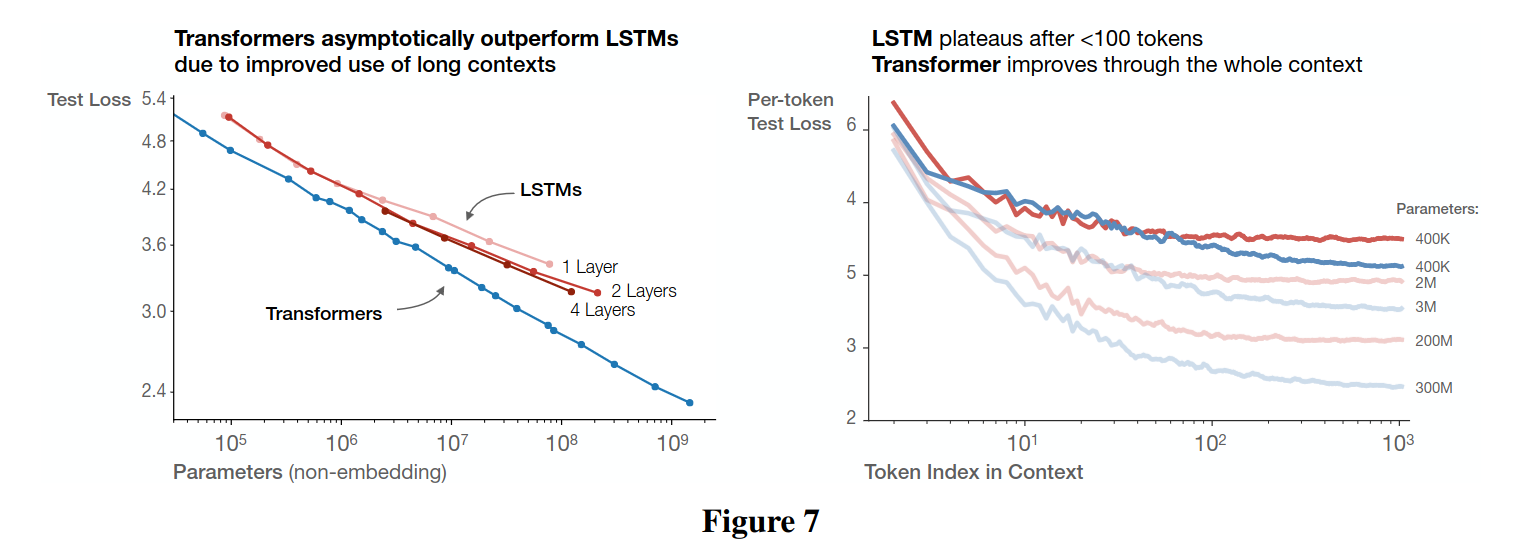
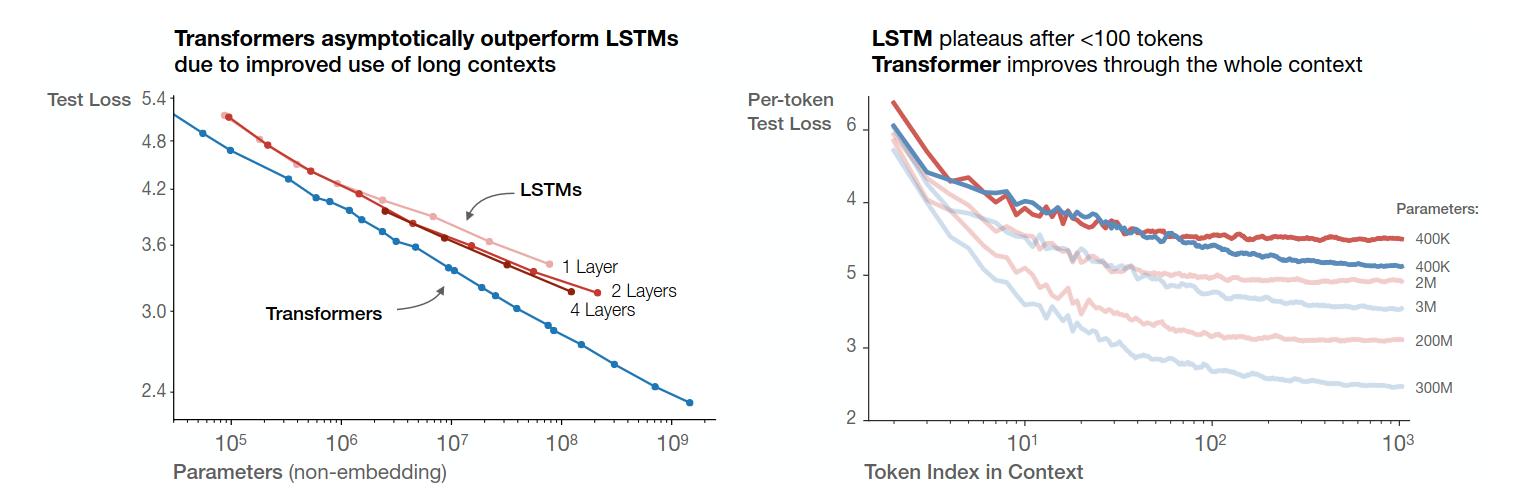
docs: rewrite figure captions in own words, update kaplan figures, update CLAUDE.md

diff --git a/content/scaling-laws/kaplan-2020.md b/content/scaling-laws/kaplan-2020.md
@@ -27,7 +27,7 @@ where $X \in \{N, D, C\}$ and $\alpha > 0$ is the scaling exponent. The key prop
 ## Key Findings
 
 ![[kaplan-fig1.png]]
-*Figure 1: Test loss follows power laws in N, D, and compute C across many orders of magnitude.*
+*Figure 1: Test loss follows a smooth power law in N, D, and C independently, each over many orders of magnitude. All three must be scaled together for optimal performance — fixing any one eventually makes it the bottleneck.*
 
 ### Power laws in N, D, C independently
 
@@ -58,14 +58,14 @@ Total training FLOPs for a transformer with $N$ non-embedding parameters trained
 ### Architecture insensitivity
 
 ![[kaplan-fig5.png]]
-*Figure 5: Performance depends very mildly on model shape when the total number of non-embedding parameters N is held fixed. The loss varies only a few percent over a wide range of shapes. Small differences in parameter counts are compensated for by using the fit to L(N) as a baseline. Aspect ratio in particular can vary by a factor of 40 while only slightly impacting performance; an (nlayer, dmodel) = (6, 4288) reaches a loss within 3% of the (48, 1600) model used in [RWC+19].*
+*Figure 5: Loss is largely insensitive to model shape at fixed N. Depth/width ratio can vary by 40× with only a few percent change in loss — total non-embedding parameter count, not its distribution across layers, determines performance.*
 
 At fixed total $N$, changing depth/width ratio, number of heads, or FFN multiplier has much less effect on loss than changing $N$ itself. What matters is total parameter count, not how it is distributed. The optimal depth scales roughly as $d_\text{model} \propto \sqrt{N}$, but this is a weak effect in practice.
 
 ### Transformer vs LSTM
 
 ![[kaplan-fig7.png]]
-*Figure 7: Transformers and LSTMs are compared on loss as a function of non-embedding parameter count. LSTMs perform comparably to Transformers on tokens appearing early in the context but fall far behind on later tokens, where integrating long-range information matters.*
+*Figure 7: Transformers outperform LSTMs at every model size on a per-parameter basis. The gap is position-dependent: LSTMs match Transformers on early context tokens but degrade sharply on later ones, where long-range integration matters.*
 
 Transformers show a better power-law scaling trend than LSTMs. The LSTM's weakness is architectural: it cannot efficiently use long-range context, so performance degrades for tokens that require information from far back in the sequence. This gap widens with scale.
 

diff --git a/CLAUDE.md b/CLAUDE.md
@@ -31,10 +31,10 @@ Images live in the same folder as the note and are embedded with `![[filename.pn
 - `[!warning]` — caveats, revisions, known limitations
 - `[!question]` / `[!tip]` — for untangling confusions (only add these when the user has discussed the topic)
 
-**Figures:** always include the verbatim figure caption from the paper in italics below the embed:
+**Figures:** include a caption in italics below the embed. Write it in your own words — concise, precise, focused on what the figure actually shows. Do not copy the paper verbatim (paper captions are often redundant or poorly worded). Capture the key visual claim in 1–2 sentences.
 ```
 ![[kaplan-fig5.png]]
-*Figure 5: [exact paper caption text]*
+*Figure 5: [your own description of what the figure shows]*
 ```
 
 **Writing style:** the audience is a senior DL practitioner. Skip introductory motivation. Use precise terminology (FLOPs, MFU, FSDP, TP, etc.) without defining it unless the note specifically covers it.
